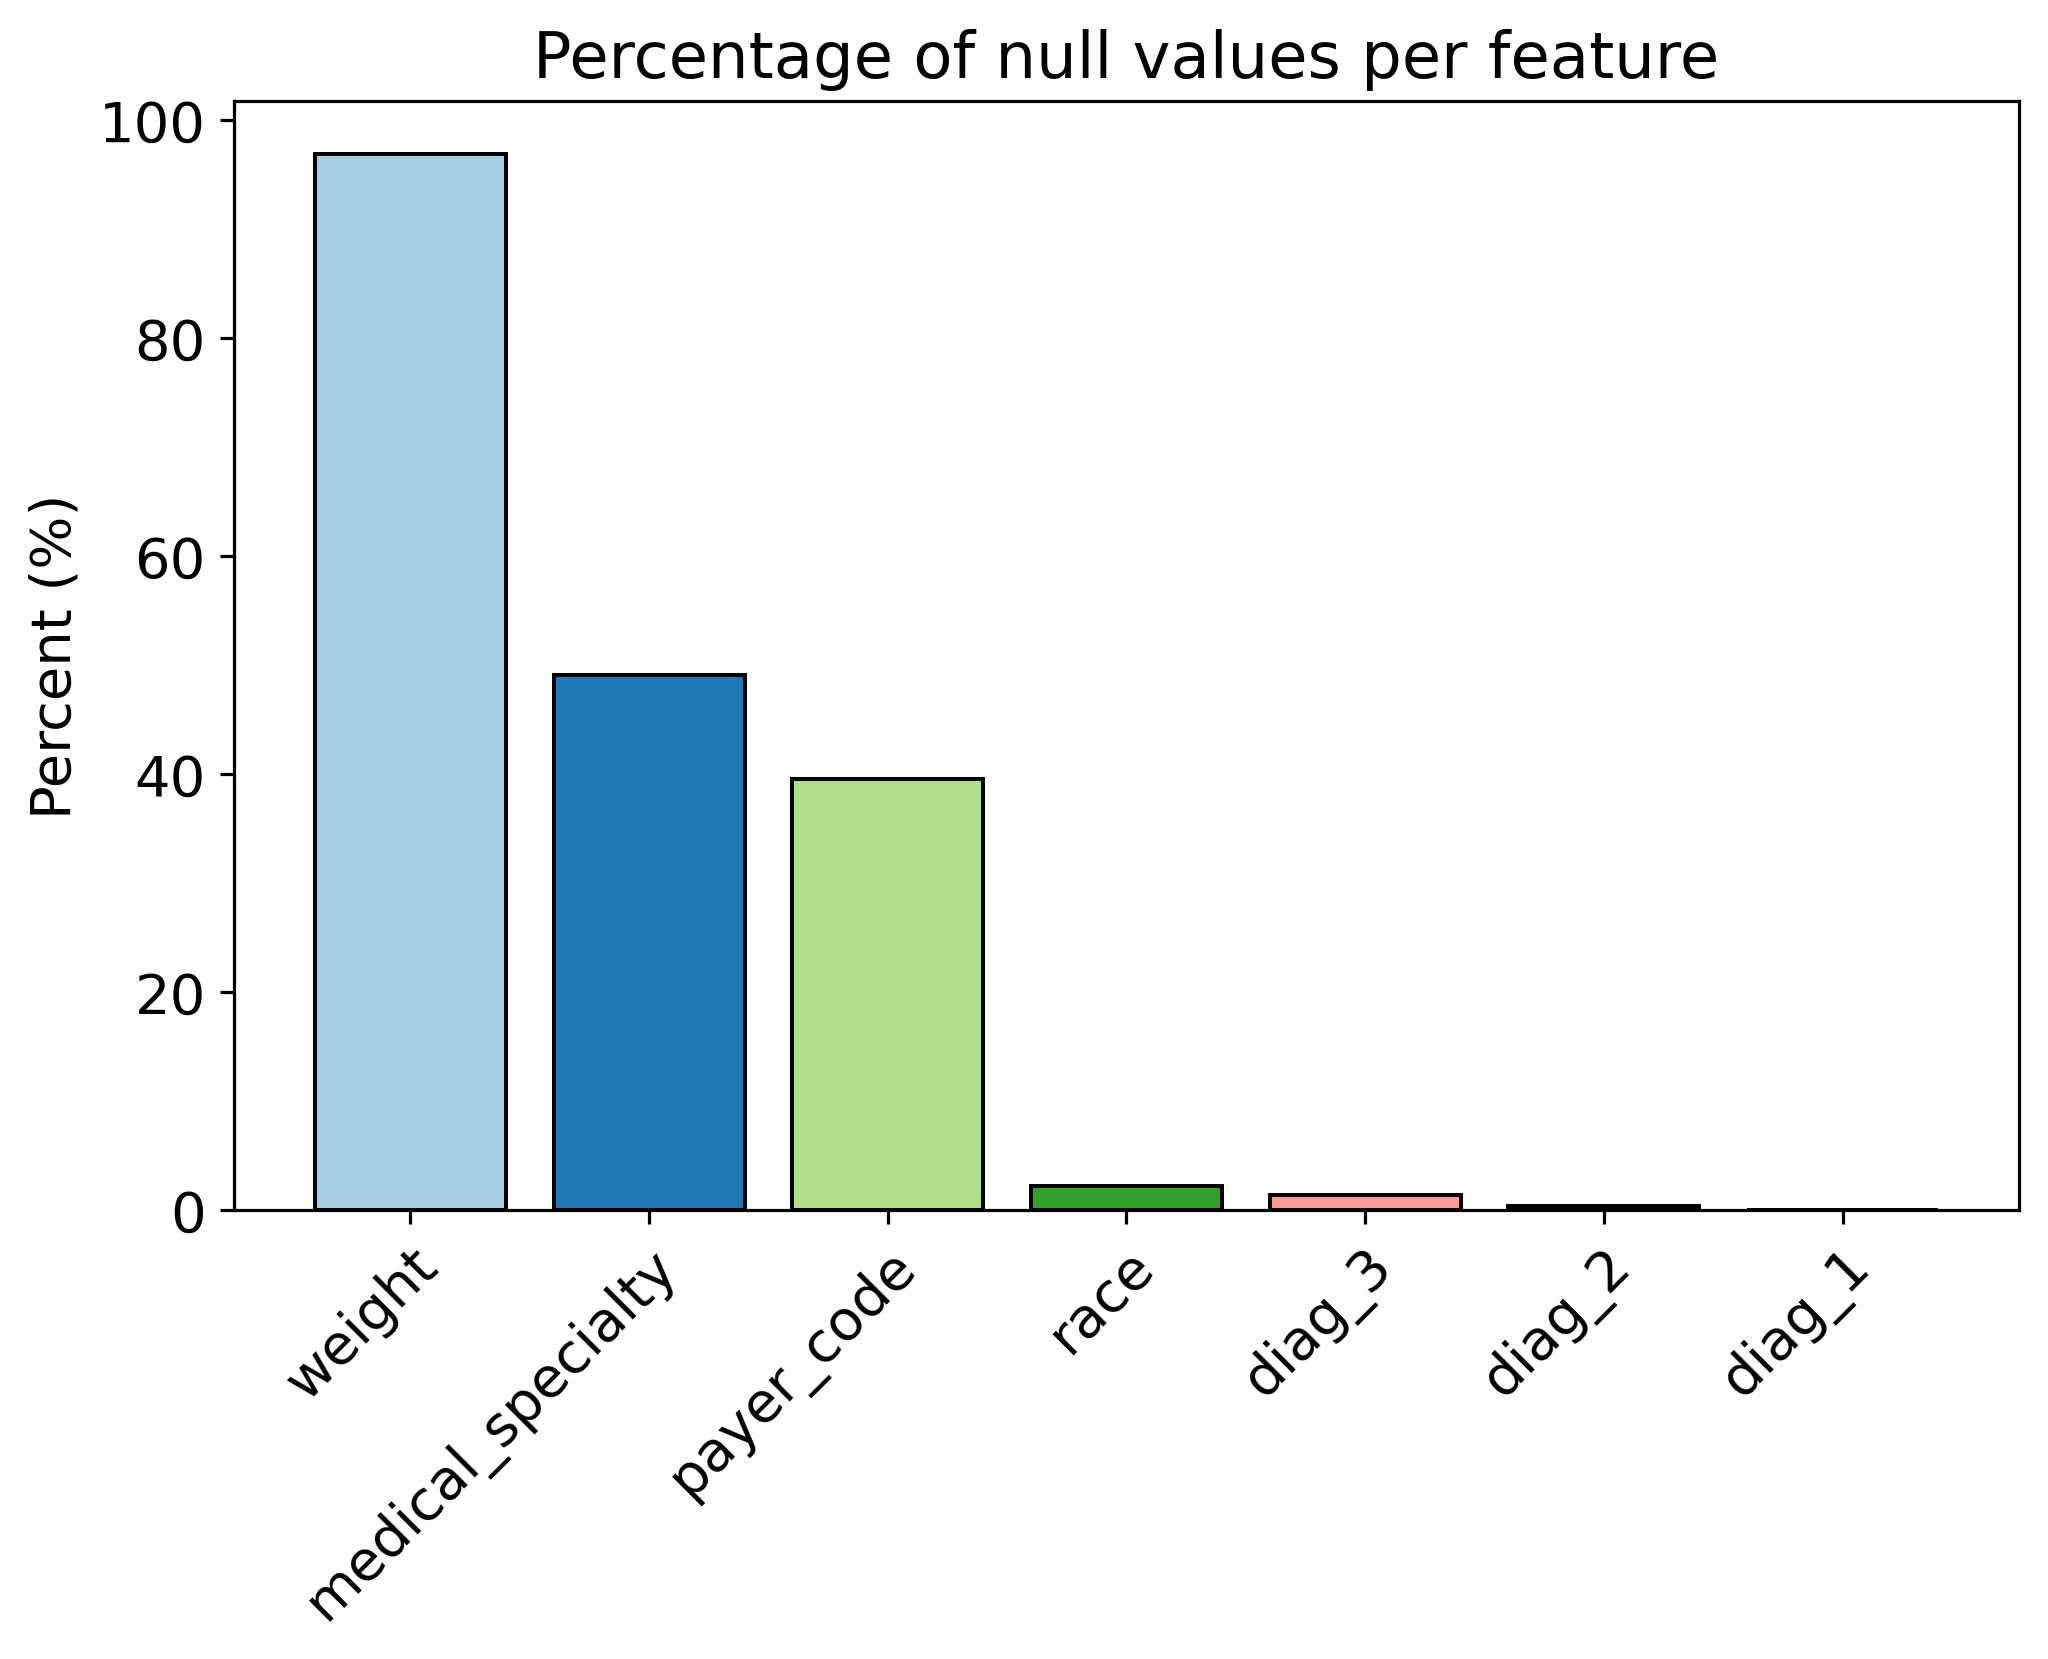
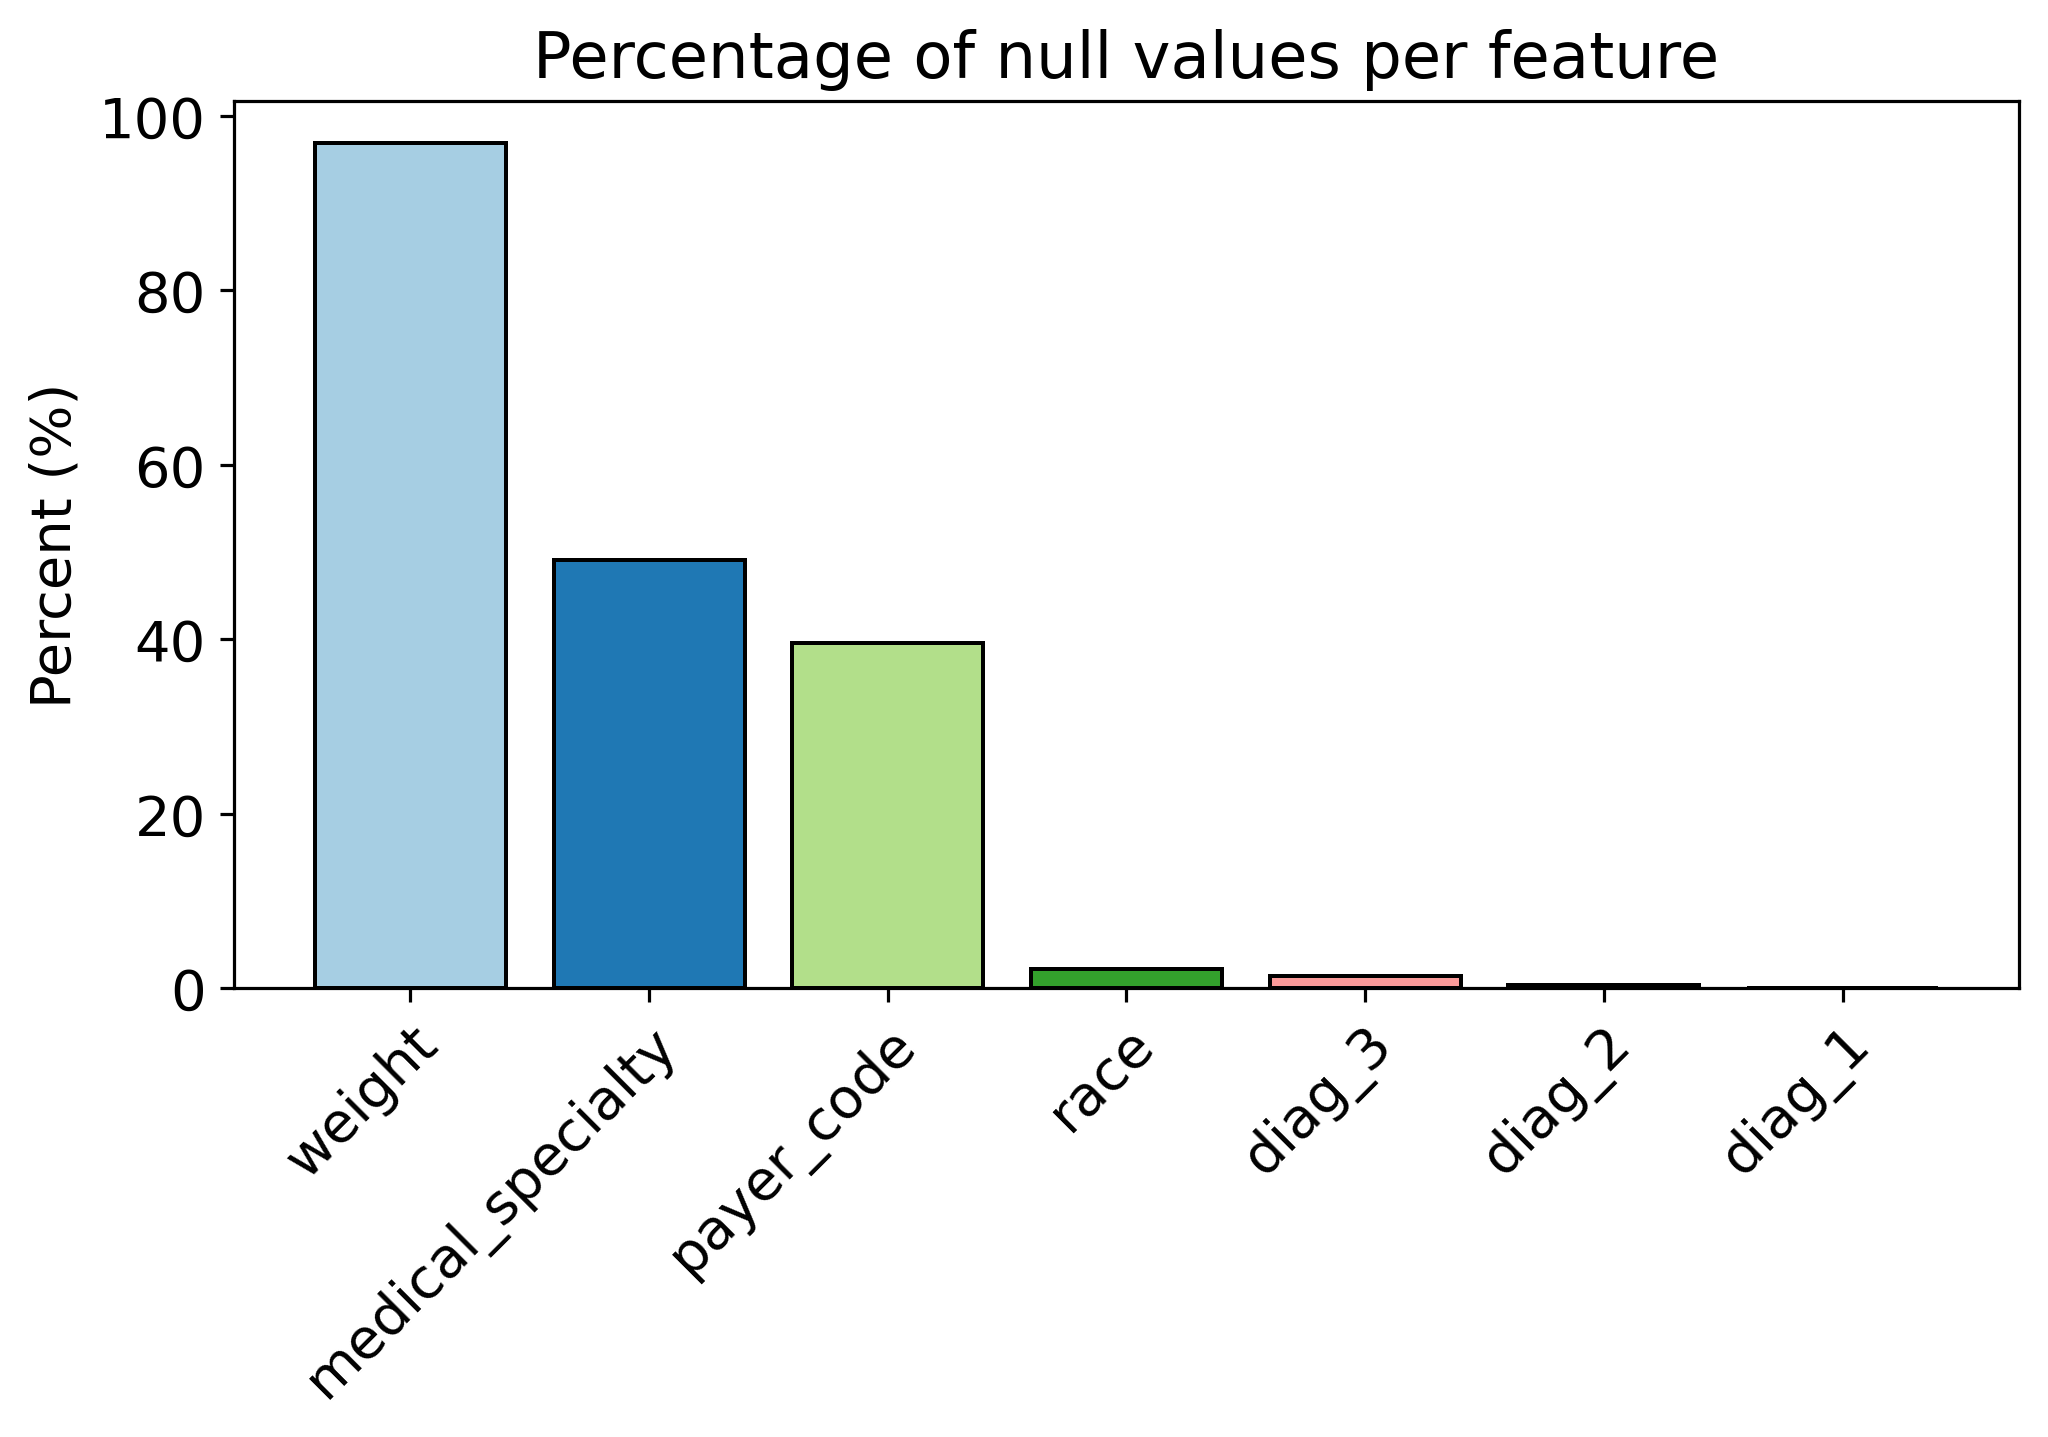
Changed figure size

diff --git a/exploratory_data_analysis/null_values.py b/exploratory_data_analysis/null_values.py
@@ -20,7 +20,7 @@ missing_df = missing_values.reset_index().rename(columns={'index': 'Feature', 0:
 missing_df['Percentage'] = missing_df['Percentage'].apply('{:.4f}'.format).astype('float')
 missing_df = missing_df.loc[missing_df['Percentage'] != 0].sort_values(by='Percentage', ascending=False)
 
-fig, axes = plt.subplots(figsize=(8, 5))
+fig, axes = plt.subplots(figsize=(8, 4))
 axes.bar(missing_df['Feature'], missing_df['Percentage'], color=plt.cm.Paired.colors, edgecolor='k')
 plt.setp(axes.get_xticklabels(), ha="right", rotation_mode="anchor", rotation=45, fontsize=14)
 plt.setp(axes.get_yticklabels(), fontsize=14)
